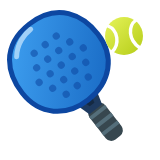
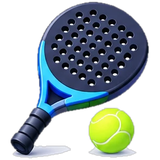
style(web): íconos 3D para Todo, Fútbol, Pádel y Vóley playa
Recortados de la hoja de íconos generada con IA, sin el fondo blanco.
Se ven en las pestañas del inicio y en el menú de deportes del buscador.

diff --git a/Frontend/src/lib/constants.ts b/Frontend/src/lib/constants.ts
@@ -43,7 +43,8 @@ export const SPORTS: SportMeta[] = [
 /** Ícono ilustrado de cada deporte: lo usan las pestañas del inicio y el menú
  *  de deportes del buscador. Son imágenes (public/deportes) y no emojis de
  *  texto porque cada sistema dibuja los emojis distinto; así se ven iguales en
- *  todos lados. Salen de Noto Emoji (Google, licencia Apache 2.0).
+ *  todos lados. Los de deporte son ilustraciones 3D generadas con IA para
+ *  ReservaTuCancha; el pin de "Cerca de mí" sale de Noto Emoji (Apache 2.0).
  *  '' es "todos". */
 export const SPORT_ICONO: Record<string, string> = {
   '': '/deportes/todos.png',
